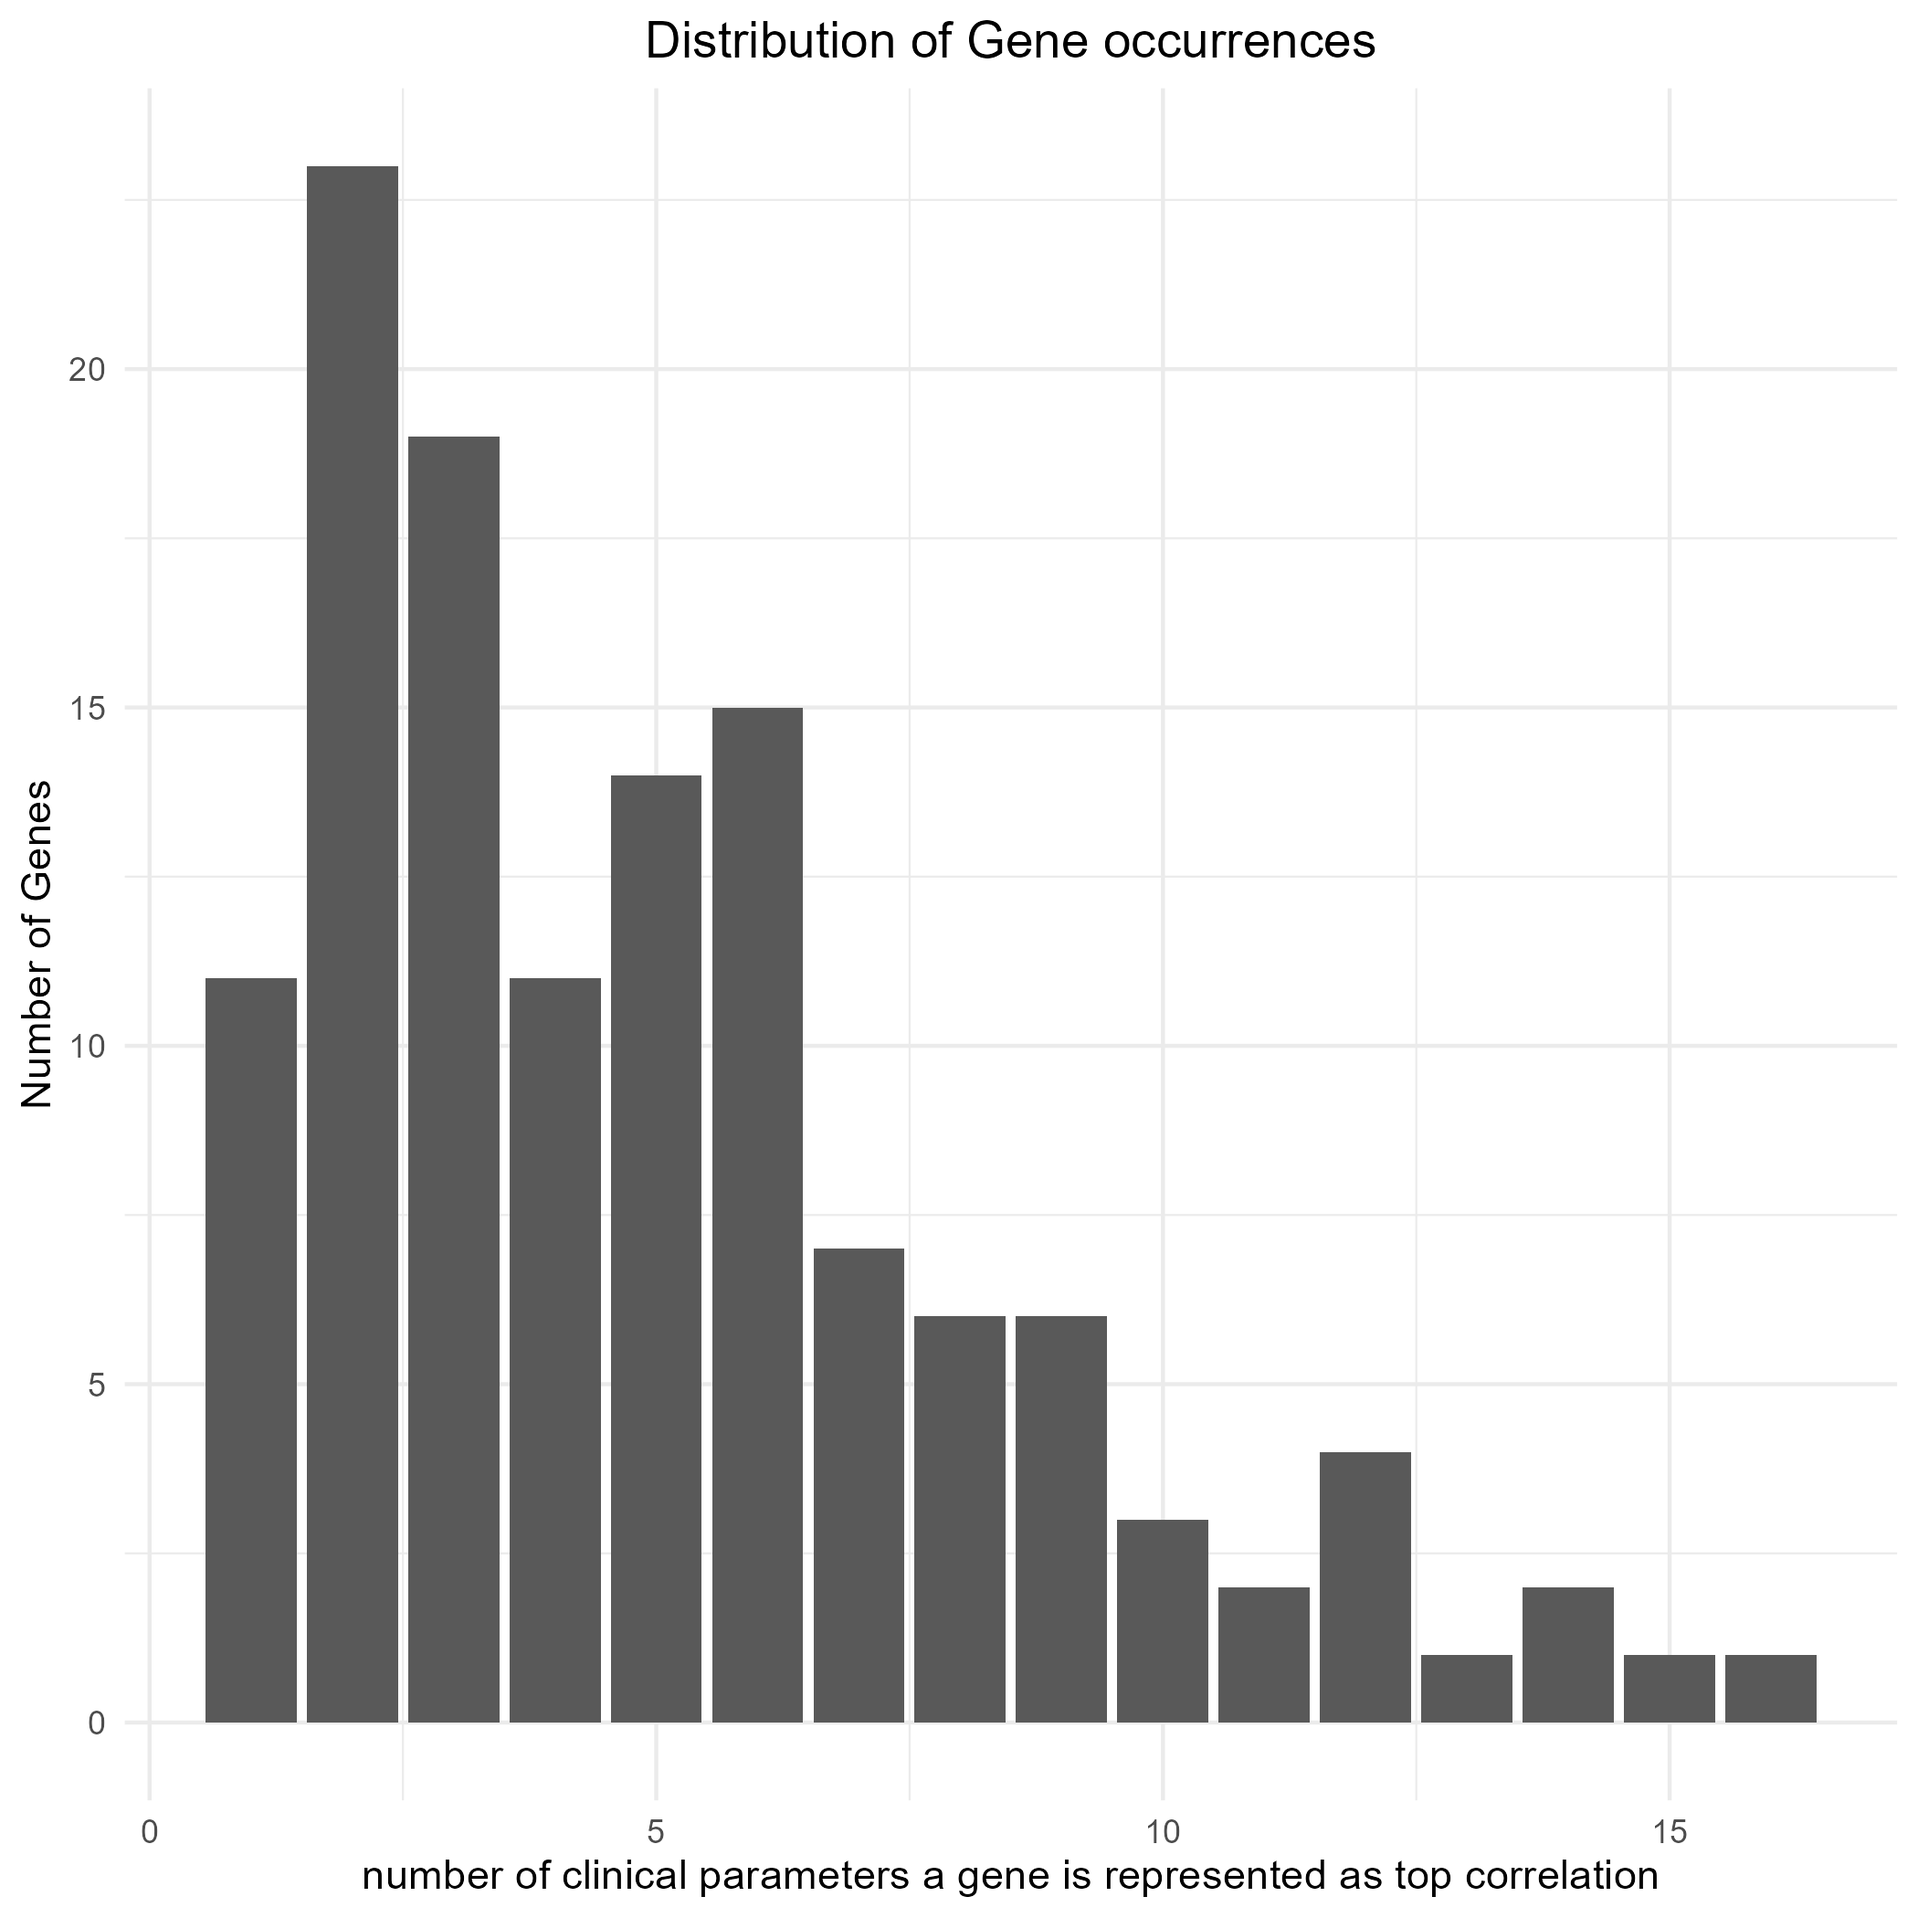
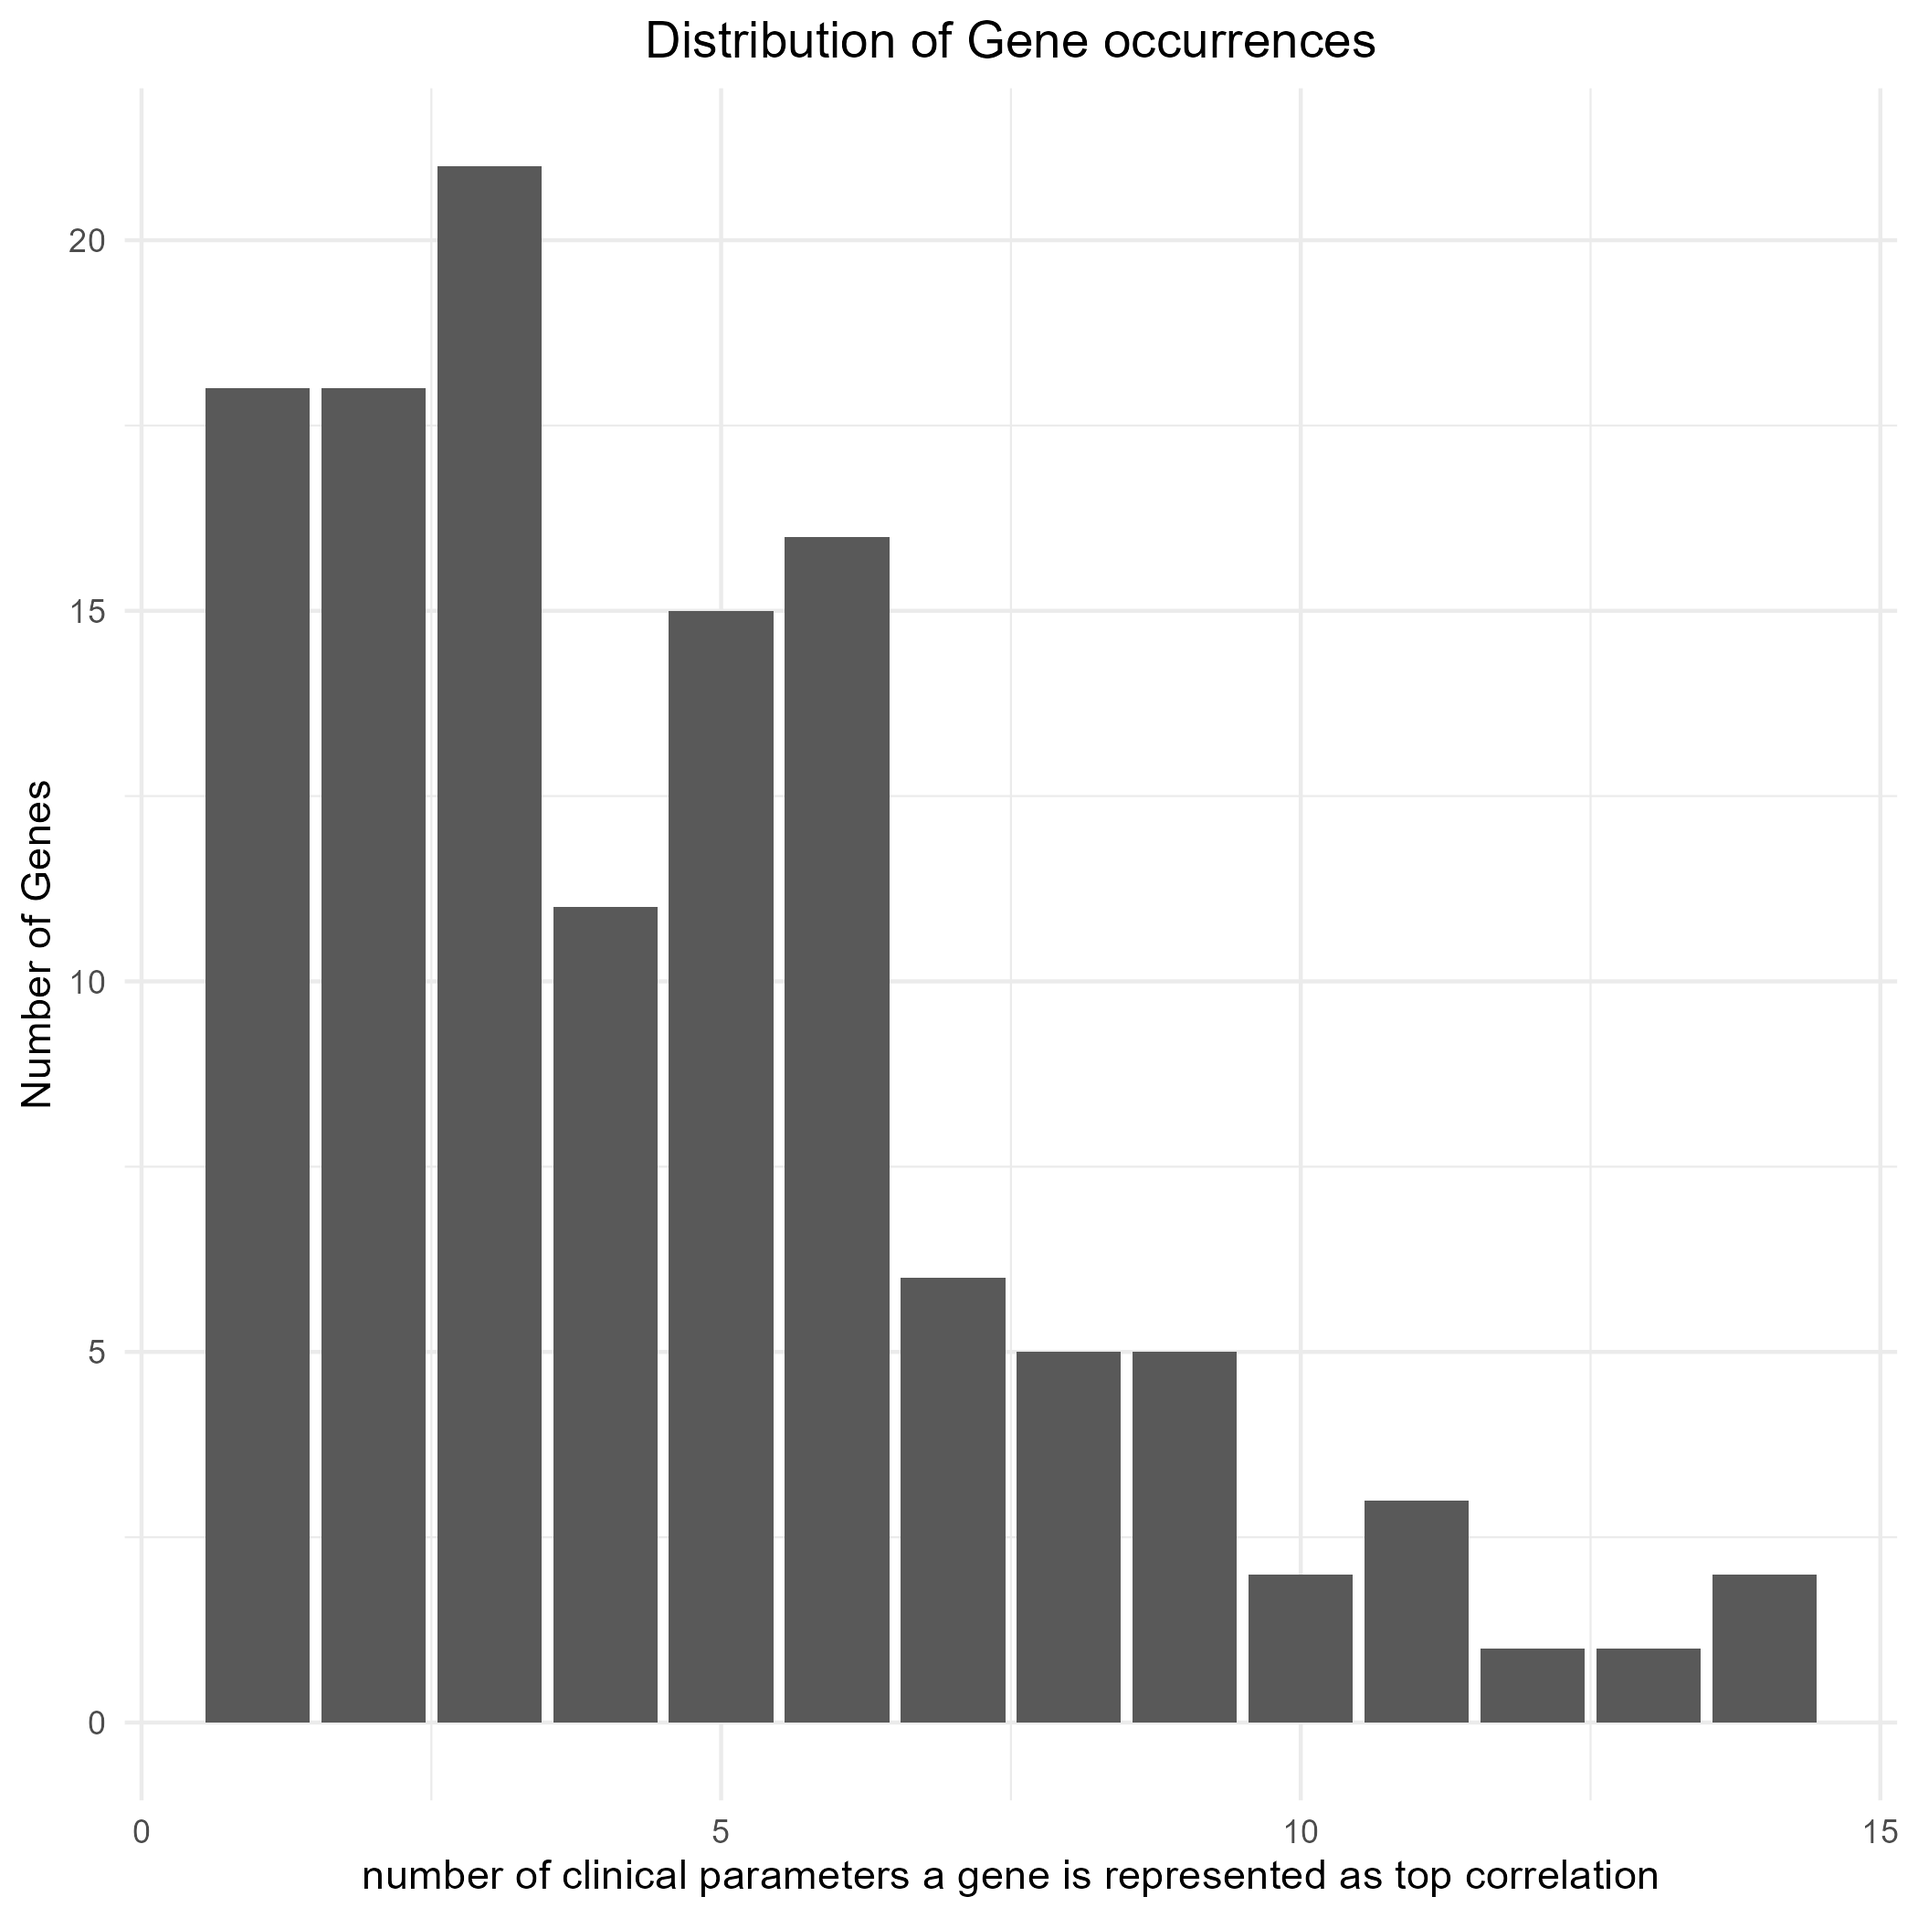
integrated filter to exclude less usefull clinical parameters

Changed region(s): [[0.0929, 0.0619, 0.4643, 0.8976], [0.4643, 0.65, 0.9595, 0.8976]]

diff --git a/docu/AssociationAnalysis/CorrelationVisualizationFiltered/v_t_c_f_combined_visualization.r.md b/docu/AssociationAnalysis/CorrelationVisualizationFiltered/v_t_c_f_combined_visualization.r.md
@@ -1,4 +1,16 @@
 # Idea
 takes the filtered genes per parameter from [[visualize_top_correlations_filtered.r]] and sets them into context with the clinical parameters.
 
-![[number_of_entries_per_param.png]]![[gene_frequency_distribution.png]]![[string_graph.png]]
+For the "number of gene occurrences" plot and the string analysis were performed with a reduced set of clinical parameters. 
+The following parameters were excluded:
+"age", "height", "weight", "NYHA", "ZVD", "heart.rate", "Paradoxe_Septumbewegung", "Perikarderguss"
+This was done because either the parameters are not specific for the disease (e.g. age), or the distribution of the respective clinical values were not suitable to perform meaningful correlations (e.g. NYHA values 1,2,3,4). Interesting about this that the exclusion of those 8 Parameters reduced the gene set only by two genes, suggesting that those correlations were driven by a meaningful ATAC value distribution, less than meaningful clinical parameter values.
+
+![[number_of_entries_per_param.png]]
+
+![[gene_frequency_distribution.png]]
+![[string_graph.png]]
+### String input
+```
+ENSG00000133424,ENSG00000186716,ENSG00000166313,ENSG00000069535,ENSG00000177455,ENSG00000182310,ENSG00000184838,ENSG00000159958,ENSG00000160856,ENSG00000006756,ENSG00000119411,ENSG00000182636,ENSG00000187912,ENSG00000189306,ENSG00000132481,ENSG00000165507,ENSG00000176293,ENSG00000186204,ENSG00000186765,ENSG00000004478,ENSG00000103740,ENSG00000108786,ENSG00000116857,ENSG00000118420,ENSG00000132970,ENSG00000006625,ENSG00000099617,ENSG00000107902,ENSG00000114450,ENSG00000121742,ENSG00000122861,ENSG00000126217,ENSG00000130518,ENSG00000134539,ENSG00000136854,ENSG00000137265,ENSG00000138119,ENSG00000164011,ENSG00000166428,ENSG00000175707,ENSG00000204010,ENSG00000069188,ENSG00000070444,ENSG00000087237,ENSG00000112182,ENSG00000113356,ENSG00000119688,ENSG00000121807,ENSG00000131398,ENSG00000133069,ENSG00000138794,ENSG00000148498,ENSG00000156113,ENSG00000168517,ENSG00000185052,ENSG00000188687,ENSG00000015676,ENSG00000099864,ENSG00000105991,ENSG00000126266,ENSG00000128218,ENSG00000135919,ENSG00000136158,ENSG00000136573,ENSG00000169877,ENSG00000173272,ENSG00000183066,ENSG00000074527,ENSG00000076716,ENSG00000115112,ENSG00000115884,ENSG00000128253,ENSG00000142949,ENSG00000149809,ENSG00000150594,ENSG00000160285,ENSG00000163534,ENSG00000166780,ENSG00000172164,ENSG00000173114,ENSG00000174233,ENSG00000175029,ENSG00000176463,ENSG00000179455,ENSG00000182489,ENSG00000183018,ENSG00000187091,ENSG00000197576,ENSG00000037280,ENSG00000070501,ENSG00000074416,ENSG00000117480,ENSG00000124588,ENSG00000129422,ENSG00000132773,ENSG00000134243,ENSG00000135480,ENSG00000139178,ENSG00000141294,ENSG00000148848,ENSG00000152413,ENSG00000163001,ENSG00000174307,ENSG00000178053,ENSG00000182985,ENSG00000188848,ENSG00000002933,ENSG00000006282,ENSG00000100448,ENSG00000107731,ENSG00000120738,ENSG00000133661,ENSG00000135476,ENSG00000136231,ENSG00000139044,ENSG00000141698,ENSG00000141905,ENSG00000153774,ENSG00000163600,ENSG00000165806,ENSG00000168890,ENSG00000170190,ENSG00000170819,ENSG00000171502
+```
